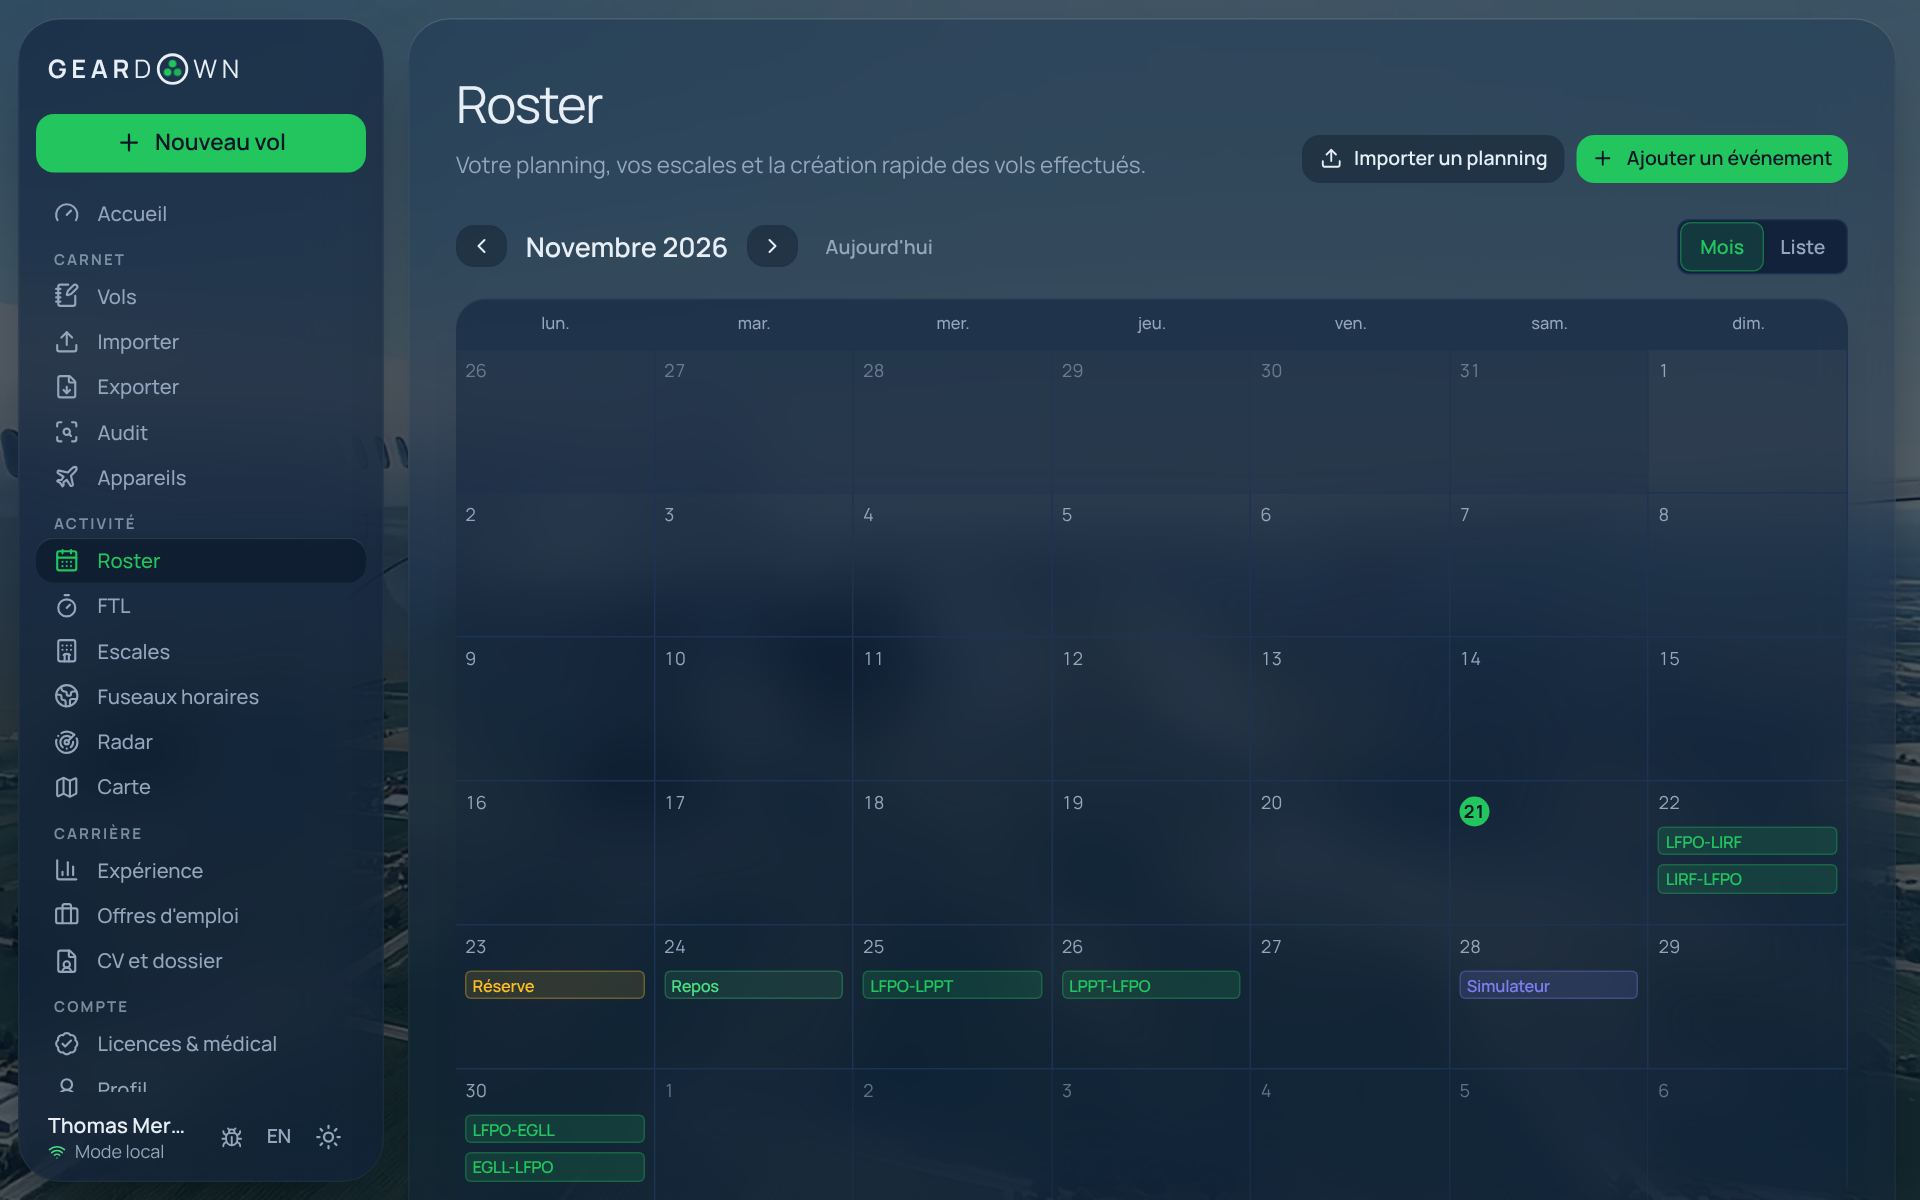
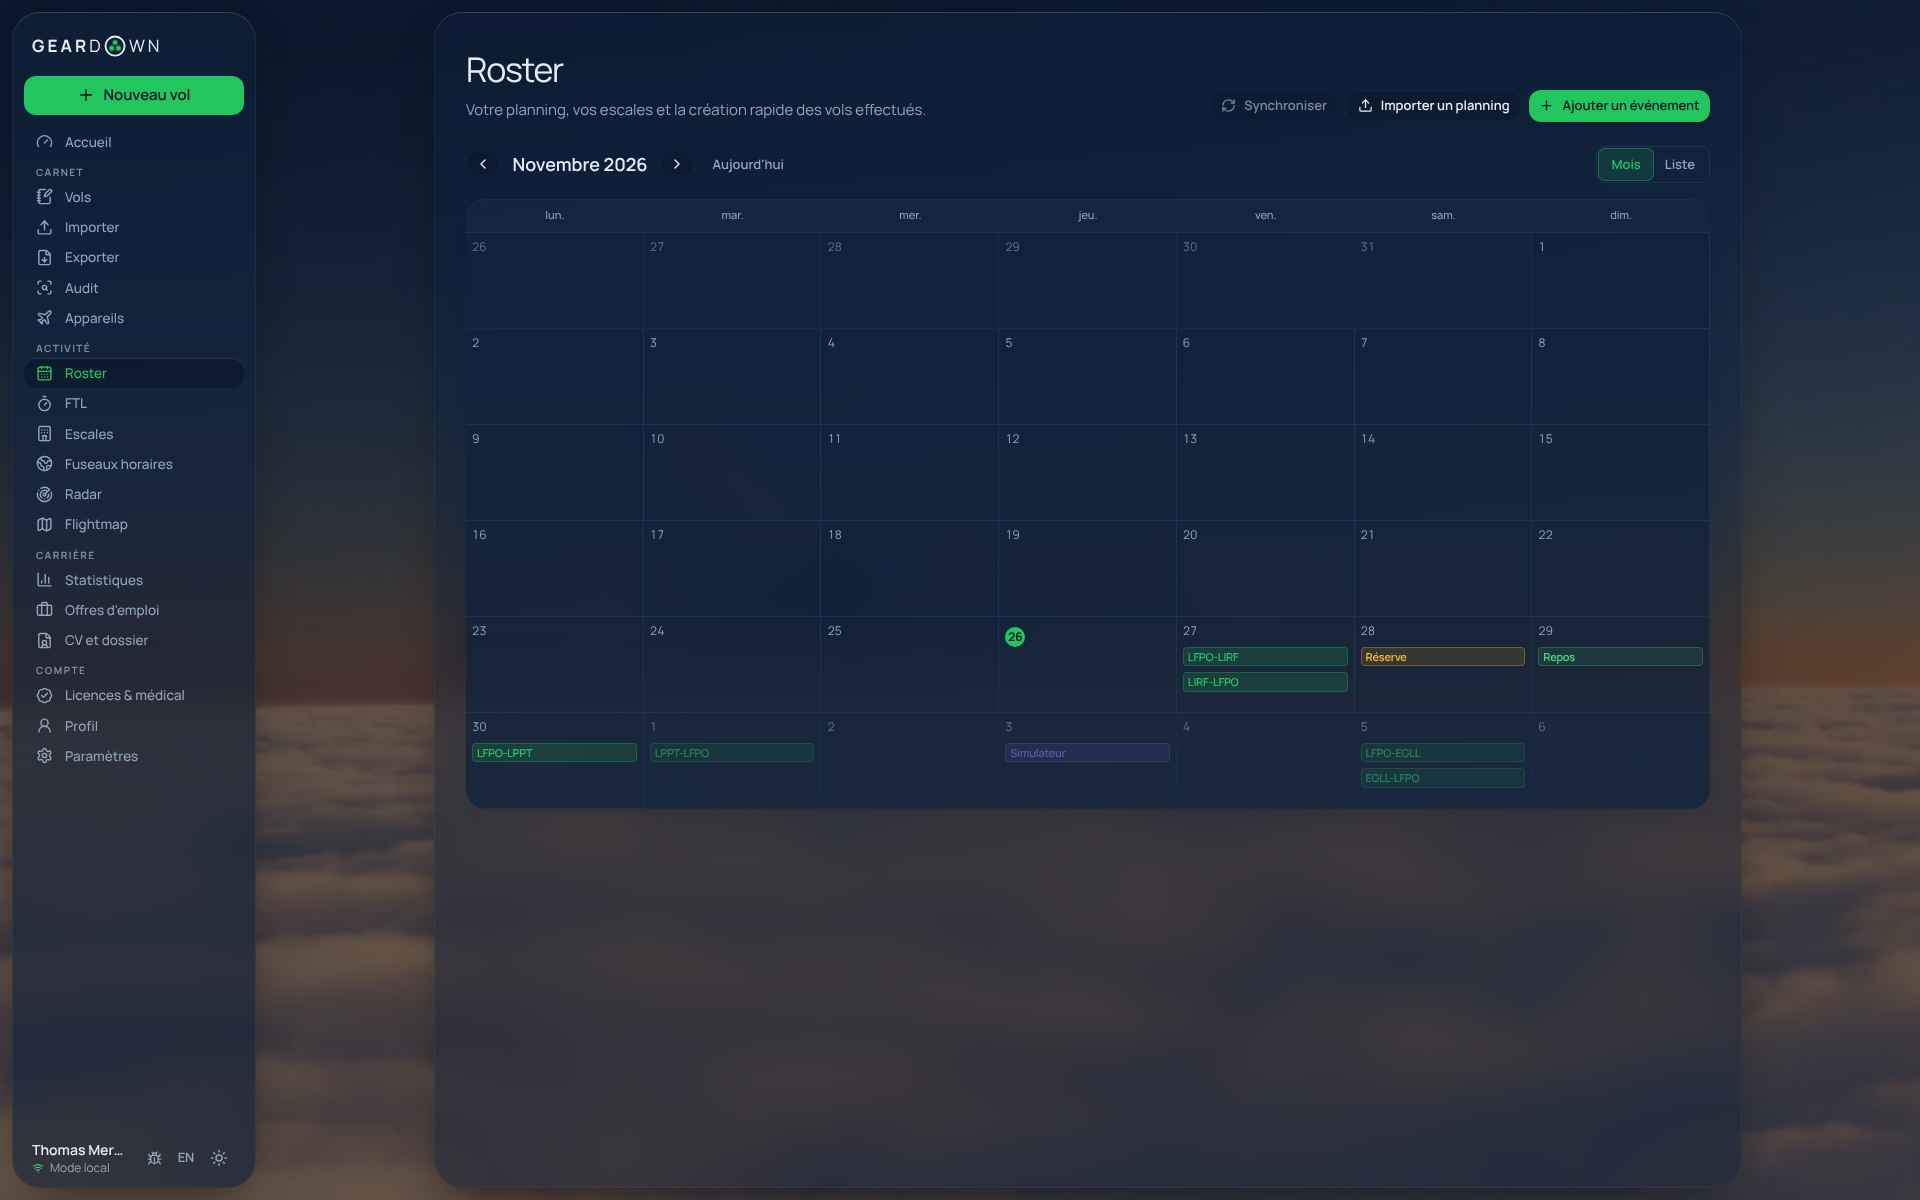
Features page: roster sync, layovers, airline and LogTen imports, licence reading, SEP/MEP and HUD recency; fresh screenshots
Claude-Session: https://claude.ai/code/session_01EPNtjHp8bccUBpSkHyegiD

diff --git a/apps/web/src/components/marketing/sections.tsx b/apps/web/src/components/marketing/sections.tsx
@@ -1,6 +1,6 @@
 import { DemoClip, type ClipName } from "./DemoClip";
 import { useLocale, useMessages, useTranslations } from "next-intl";
-import { ArrowRight, BadgeCheck, Briefcase, CalendarClock, Check, CloudOff, FileDown, FileUser, Lock, Map, PenLine, ScanSearch, ShieldCheck, Upload } from "lucide-react";
+import { ArrowRight, BadgeCheck, Briefcase, CalendarClock, CalendarRange, Check, Hotel, CloudOff, FileDown, FileUser, Lock, Map, PenLine, ScanSearch, ShieldCheck, Upload } from "lucide-react";
 import { Link } from "@/i18n/navigation";
 import { SITE } from "@/config/site";
 import { BrowserFrame, LaptopFrame, PhoneFrame, Shot } from "./Shot";
@@ -10,8 +10,8 @@ import { Reveal } from "./Reveal";
 /** features shown by a clip filmed on the real app rather than a still */
 const CLIPS: Partial<Record<(typeof FEATURE_KEYS)[number], ClipName>> = { import: "import", audit: "audit", signature: "sign", licenses: "licences", ftl: "ftl", cv: "cv", jobs: "jobs" };
 
-export const FEATURE_KEYS = ["logbook", "import", "audit", "licenses", "ftl", "stats", "signature", "offline", "jobs", "cv"] as const;
-const ICONS = { logbook: FileDown, import: Upload, audit: ScanSearch, licenses: BadgeCheck, ftl: CalendarClock, stats: Map, signature: PenLine, offline: CloudOff, jobs: Briefcase, cv: FileUser };
+export const FEATURE_KEYS = ["logbook", "import", "audit", "licenses", "ftl", "roster", "stats", "layovers", "signature", "offline", "jobs", "cv"] as const;
+const ICONS = { roster: CalendarRange, layovers: Hotel, logbook: FileDown, import: Upload, audit: ScanSearch, licenses: BadgeCheck, ftl: CalendarClock, stats: Map, signature: PenLine, offline: CloudOff, jobs: Briefcase, cv: FileUser };
 
 export function Hero() {
   const t = useTranslations("hero");
